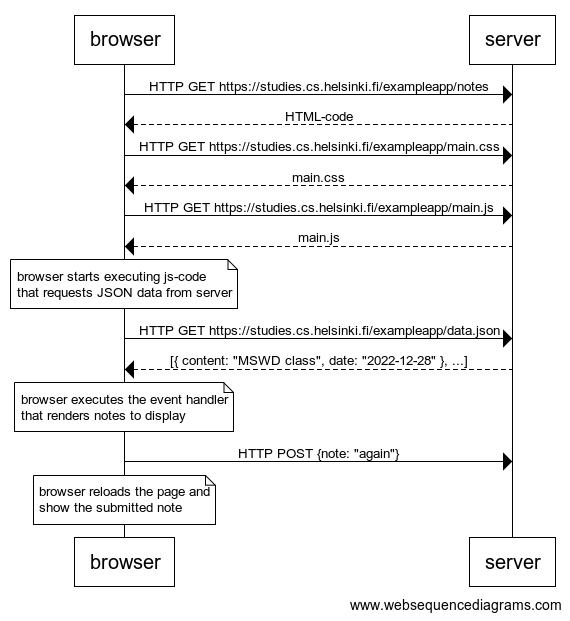
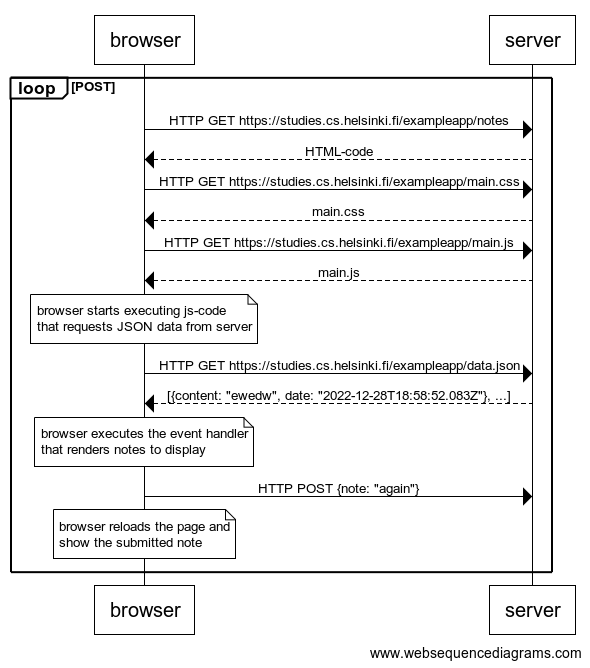
Done part0 exercises

Changed region(s): [[0.0, 0.0, 0.9842, 1.0]]

diff --git a/part0/0.5/readme.md b/part0/0.5/readme.md
@@ -1,0 +1,1 @@
+![0.5](../assets/0.5.png)

diff --git a/part0/0.6/readme.md b/part0/0.6/readme.md
@@ -1,0 +1,1 @@
+![0.6](../assets/0.6.png)
